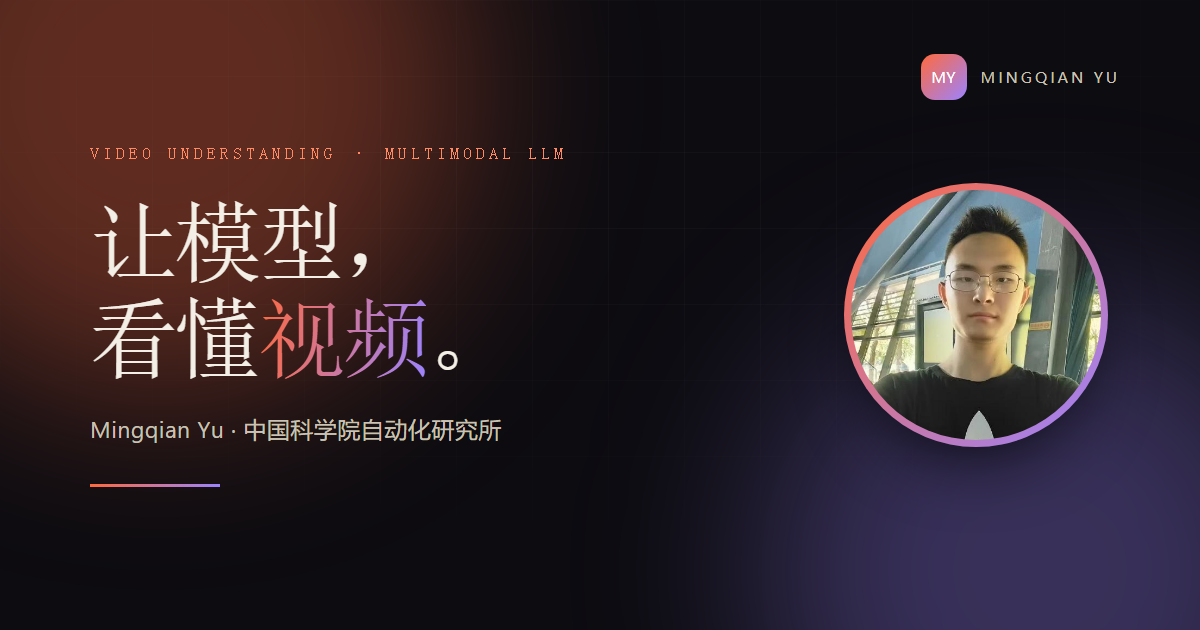
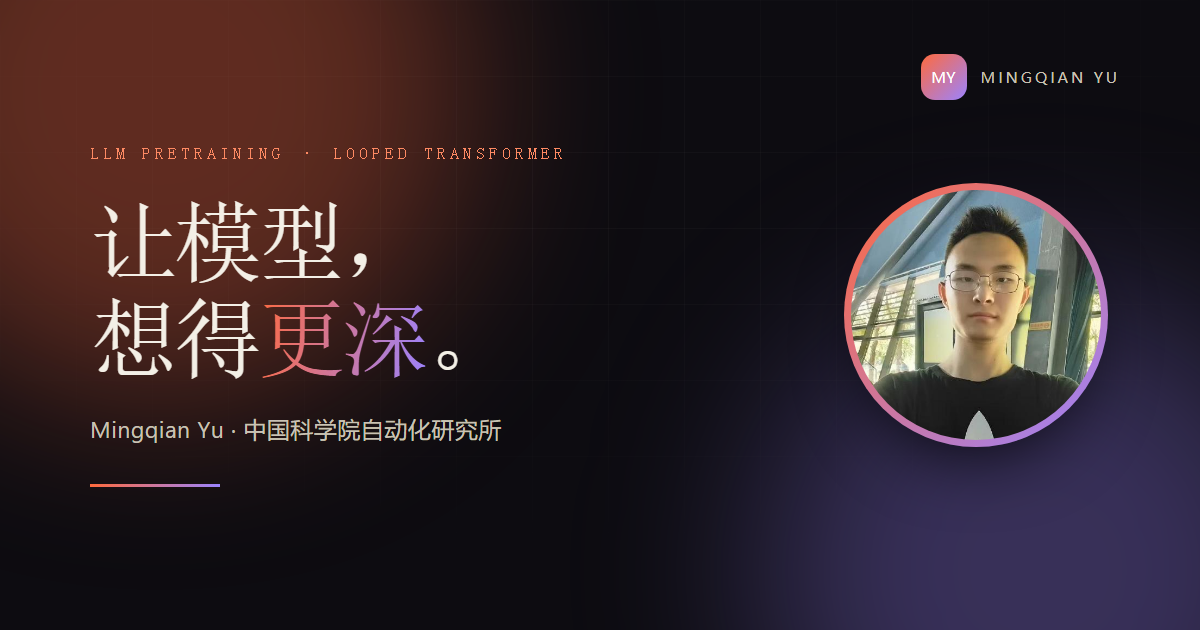
Align research focus and list publications

Changed region(s): [[0.0617, 0.4524, 0.37, 0.6032]]

diff --git a/index.html b/index.html
@@ -6,15 +6,15 @@
   <meta name="color-scheme" content="light dark">
 
   <!-- ✏ 可修改：网页标题、描述、作者 -->
-  <title>Mingqian Yu · 视频理解与多模态大模型</title>
-  <meta name="description" content="Mingqian Yu，中国科学院自动化研究所硕士研究生。研究视频理解、多模态大语言模型与高效推理，一作论文包括 T-LoopFormer 与 ContraFM-S2O。">
+  <title>Mingqian Yu · LLM Pretraining, Looped Transformer</title>
+  <meta name="description" content="Mingqian Yu，中国科学院自动化研究所硕士研究生。研究 LLM Pretraining、Looped Transformer 与高效推理，一作论文包括 T-LoopFormer 与 ContraFM-S2O。">
   <meta name="author" content="Mingqian Yu">
   <link rel="canonical" href="https://yumingqian1234.github.io/">
 
   <!-- 社交平台分享卡片 -->
   <meta property="og:type" content="website">
-  <meta property="og:title" content="Mingqian Yu · 视频理解与多模态大模型">
-  <meta property="og:description" content="让模型真正看懂视频。中国科学院自动化研究所硕士研究生，一作论文 T-LoopFormer、ContraFM-S2O。">
+  <meta property="og:title" content="Mingqian Yu · LLM Pretraining, Looped Transformer">
+  <meta property="og:description" content="中国科学院自动化研究所硕士研究生，研究 LLM Pretraining、Looped Transformer 与高效推理。">
   <meta property="og:url" content="https://yumingqian1234.github.io/">
   <meta property="og:image" content="https://yumingqian1234.github.io/assets/og.png">
   <meta name="twitter:card" content="summary_large_image">
@@ -46,7 +46,7 @@
         "@type": "Organization",
         "name": "Institute of Automation, Chinese Academy of Sciences"
       },
-      "description": "研究视频理解、多模态大语言模型与高效推理。",
+      "description": "LLM Pretraining, Looped Transformer",
       "sameAs": [
         "https://github.com/YuMingQian1234",
         "https://arxiv.org/abs/2609.15160",
@@ -131,14 +131,13 @@
 
         <h1 class="reveal" style="--d: 1">
           让模型，<br>
-          看懂<span class="gradient-text">视频</span>。
+          想得<span class="gradient-text">更深</span>。
         </h1>
 
         <p class="hero-role reveal" style="--d: 2">
-          <span class="sr-only">我是一名视频理解研究者、多模态大模型学习者、开源贡献者。</span>
+          <span class="sr-only">我是一名大模型学习者、开源贡献者、终身学习者。</span>
           <span aria-hidden="true">我是一名</span><span class="role-rotator" id="roleRotator" aria-hidden="true">
-            <span class="role is-active">视频理解研究者</span>
-            <span class="role">多模态大模型学习者</span>
+            <span class="role is-active">大模型学习者</span>
             <span class="role">开源贡献者</span>
             <span class="role">终身学习者</span>
           </span>
@@ -146,7 +145,7 @@
 
         <!-- ✏ 可修改：首屏自我介绍 -->
         <p class="hero-desc reveal" style="--d: 3">
-          我是 <strong>Mingqian Yu</strong>，中国科学院自动化研究所硕士研究生，本科毕业于东北大学（NEU, China）。研究兴趣包括视频理解、多模态大语言模型、生成模型与 Latent Reasoning；喜欢把想法做成可复现的代码、数据和论文。
+          我是 <strong>Mingqian Yu</strong>，中国科学院自动化研究所硕士研究生，本科毕业于东北大学（NEU, China）。研究兴趣包括 LLM Pretraining、Looped Transformer 与高效推理；喜欢把想法做成可复现的代码、数据和论文。
         </p>
 
         <div class="hero-actions reveal" style="--d: 4">
@@ -181,7 +180,7 @@
               <img class="portrait-photo" src="assets/avatar.jpg" alt="Mingqian Yu 的照片">
               <figcaption>
                 <span class="portrait-name">Mingqian Yu</span>
-                <span class="portrait-role">Video Understanding / MLLM</span>
+                <span class="portrait-role">LLM Pretraining / Looped Transformer</span>
               </figcaption>
             </div>
           </figure>
@@ -192,7 +191,7 @@
           </div>
           <div class="float-chip chip-b">
             <span class="chip-dot" aria-hidden="true"></span>
-            正在做视频理解
+            正在做 Looped Transformer
           </div>
           <div class="float-chip chip-c">
             <svg class="icon" viewBox="0 0 24 24" aria-hidden="true"><path d="M12 21s-7-4.4-7-10a7 7 0 0 1 14 0c0 5.6-7 10-7 10Z"/><circle cx="12" cy="11" r="2.5"/></svg>
@@ -226,10 +225,10 @@
       <div class="marquee" aria-hidden="true">
         <div class="marquee-track">
           <div class="marquee-group">
-            <span>Video Understanding</span><span>Multimodal LLM</span><span>PyTorch</span><span>Transformers</span><span>CUDA</span><span>DeepSpeed</span><span>VideoLLaMA</span><span>VILA</span>
+            <span>LLM Pretraining</span><span>Looped Transformer</span><span>Latent Reasoning</span><span>PyTorch</span><span>Flow Matching</span><span>Multimodal</span><span>CUDA</span><span>VILA</span>
           </div>
           <div class="marquee-group">
-            <span>Video Understanding</span><span>Multimodal LLM</span><span>PyTorch</span><span>Transformers</span><span>CUDA</span><span>DeepSpeed</span><span>VideoLLaMA</span><span>VILA</span>
+            <span>LLM Pretraining</span><span>Looped Transformer</span><span>Latent Reasoning</span><span>PyTorch</span><span>Flow Matching</span><span>Multimodal</span><span>CUDA</span><span>VILA</span>
           </div>
         </div>
       </div>
@@ -247,10 +246,10 @@
         <div class="about-text">
           <p class="about-lead reveal">好的研究，既要能<span class="mark">解释问题</span>，也要能<span class="mark">跑起来</span>。</p>
           <!-- ✏ 可修改：关于我的段落 -->
-          <p class="reveal" style="--d: 1">我是 Mingqian Yu，中国科学院自动化研究所的硕士研究生，本科毕业于东北大学（NEU, China）。目前的研究兴趣集中在视频理解、多模态大语言模型与生成模型。</p>
+          <p class="reveal" style="--d: 1">我是 Mingqian Yu，中国科学院自动化研究所的硕士研究生，本科毕业于东北大学（NEU, China）。目前的研究兴趣集中在 LLM Pretraining、Looped Transformer 与高效推理。</p>
           <p class="reveal" style="--d: 2">最近的一作工作包括 <strong>T-LoopFormer</strong> 与 <strong>ContraFM-S2O</strong>：前者研究 token 级别的弹性循环深度，让每个 token 自己决定循环多少次，并用递归级 KV Cache 加速自回归解码；后者用单步流匹配与对比学习做 SAR-to-optical 图像翻译，降低扩散模型的推理延迟。</p>
           <p class="reveal" style="--d: 3">另一条线是 <strong>SportsCom</strong> —— 一个大规模、多运动、多类别、多属性的体育解说数据集，用于评测 MLLM 对长视频叙事与战术的理解。我也在开源模型上做实践，复现和调试 VILA 系列视频语言模型。</p>
-          <p class="reveal" style="--d: 4">欢迎交流论文、数据集、实习机会或任何关于视频理解与生成模型的想法。</p>
+          <p class="reveal" style="--d: 4">欢迎交流论文、数据集、实习机会，或任何关于大模型预训练、推理与生成模型的想法。</p>
 
           <div class="about-actions reveal" style="--d: 5">
             <a class="text-link" href="https://github.com/YuMingQian1234" target="_blank" rel="noopener noreferrer">
@@ -265,7 +264,7 @@
           <dl class="facts-list">
             <div><dt>坐标</dt><dd>中国 · 北京</dd></div>
             <div><dt>现在</dt><dd>中科院自动化所 · 硕士在读</dd></div>
-            <div><dt>关注</dt><dd>视频理解 / 多模态大模型 / 生成模型</dd></div>
+            <div><dt>关注</dt><dd>LLM Pretraining / Looped Transformer / 高效推理</dd></div>
             <div><dt>GitHub</dt><dd><a href="https://github.com/YuMingQian1234" target="_blank" rel="noopener noreferrer">@YuMingQian1234</a></dd></div>
             <div><dt>状态</dt><dd><span class="status-dot small" aria-hidden="true"></span>欢迎研究交流</dd></div>
           </dl>
@@ -293,24 +292,24 @@
         <article class="skill-card reveal tilt-card">
           <span class="skill-index" aria-hidden="true">/ 01</span>
           <span class="skill-icon" aria-hidden="true">
-            <svg class="icon" viewBox="0 0 24 24"><rect x="3" y="5" width="18" height="14" rx="2"/><path d="m10 9 5 3-5 3z"/></svg>
+            <svg class="icon" viewBox="0 0 24 24"><path d="m8 9-4 3 4 3M16 9l4 3-4 3M14 5l-4 14"/></svg>
           </span>
-          <h3>视频理解</h3>
-          <p>让模型读懂长视频里的动作、叙事与战术，而不只是看懂单帧。</p>
+          <h3>大模型与推理</h3>
+          <p>研究预训练、循环深度与推理效率，让模型用更少的计算想得更深。</p>
           <ul class="tag-list">
-            <li>Video Understanding</li><li>VideoLLaMA</li><li>VILA</li><li>LLaVA</li><li>SportsCom</li>
+            <li>LLM Pretraining</li><li>Looped Transformer</li><li>Latent Reasoning</li><li>PyTorch</li><li>CUDA</li>
           </ul>
         </article>
 
         <article class="skill-card reveal tilt-card" style="--d: 1">
           <span class="skill-index" aria-hidden="true">/ 02</span>
           <span class="skill-icon" aria-hidden="true">
-            <svg class="icon" viewBox="0 0 24 24"><rect x="3" y="4" width="18" height="7" rx="2"/><rect x="3" y="13" width="18" height="7" rx="2"/><path d="M7 7.5h.01M7 16.5h.01"/></svg>
+            <svg class="icon" viewBox="0 0 24 24"><path d="m12 3 9 5-9 5-9-5 9-5Z"/><path d="m3 13 9 5 9-5"/></svg>
           </span>
-          <h3>模型与推理</h3>
-          <p>关注效率与推理深度，而不只是参数规模。</p>
+          <h3>生成与多模态</h3>
+          <p>把流匹配、扩散模型与多模态模型用在图像翻译和视频理解上。</p>
           <ul class="tag-list">
-            <li>PyTorch</li><li>Transformers</li><li>Looped Transformers</li><li>Flow Matching</li><li>CUDA</li>
+            <li>Flow Matching</li><li>Diffusion</li><li>VILA</li><li>VideoLLaMA</li><li>Multimodal</li>
           </ul>
         </article>
 
@@ -539,8 +538,8 @@
         </svg>
 
         <p class="contact-eyebrow">Let’s talk research</p>
-        <h2>对视频理解感兴趣？<br><em>一起聊聊。</em></h2>
-        <p class="contact-copy">如果你也在做视频理解、多模态大模型或 Agent 方向，欢迎在 GitHub 上找我。论文、数据集、实习机会，或者只是一个还没成形的想法，都可以聊。</p>
+        <h2>对大模型研究感兴趣？<br><em>一起聊聊。</em></h2>
+        <p class="contact-copy">如果你也在做 LLM Pretraining、Looped Transformer、多模态或 Agent 方向，欢迎在 GitHub 上找我。论文、数据集、实习机会，或者只是一个还没成形的想法，都可以聊。</p>
 
         <div class="contact-actions">
           <a class="btn btn-primary" href="https://github.com/YuMingQian1234" target="_blank" rel="noopener noreferrer">

diff --git a/assets/og-card.html b/assets/og-card.html
@@ -56,7 +56,8 @@
   <div class="grid"></div>
   <div class="brand"><div class="mark">MY</div><span>MINGQIAN YU</span></div>
   <div class="content">
-    <p class="eyebrow">LLM Pretraining</p>
+    <p class="eyebrow">LLM PRETRAINING · LOOPED TRANSFORMER</p>
+    <h1>让模型，<br>想得<span class="grad">更深</span>。</h1>
     <p class="sub">Mingqian Yu · 中国科学院自动化研究所</p>
     <div class="rule"></div>
   </div>

diff --git a/assets/style.css b/assets/style.css
@@ -1736,7 +1736,7 @@ body.menu-open { overflow: hidden; }
   .project-card:first-child { grid-column: auto; }
   .project-card:first-child .project-visual { height: 198px; }
   .contact-socials { gap: 14px; }
-  .contact-card h2 { font-size: clamp(1.8rem, 7.8vw, 2.4rem); }
+  .contact-card h2 { font-size: clamp(1.6rem, 7vw, 2.4rem); }
   .footer-inner { justify-content: flex-start; }
   .footer-mid { width: 100%; }
 }

diff --git a/README.md b/README.md
@@ -6,13 +6,15 @@ Mingqian Yu 的个人主页，部署在 GitHub Pages：
 
 纯 HTML / CSS / JavaScript 手写，没有构建步骤、没有第三方依赖，修改后 push 即可更新。
 
+当前研究兴趣：**LLM Pretraining、Looped Transformer、高效推理、生成与多模态**。
+
 ![页面预览](assets/preview.jpg)
 
 ## 页面内容
 
 - 首屏：个人介绍、研究关键词、GitHub / arXiv / Hugging Face 入口
 - 关于：教育背景、研究兴趣、代表工作
-- 研究方向：视频理解、模型与推理、数据与工程
+- 研究方向：大模型与推理、生成与多模态、数据与工程
 - 论文发表：一作论文列表（作者、发表平台、arXiv / PDF / 代码链接）
 - 代表工作：T-LoopFormer、SportsCom、VILA 实践
 - 经历：SJTU AI Lab、PKU MIPL、YueXin Tech 实习，以及教育经历
